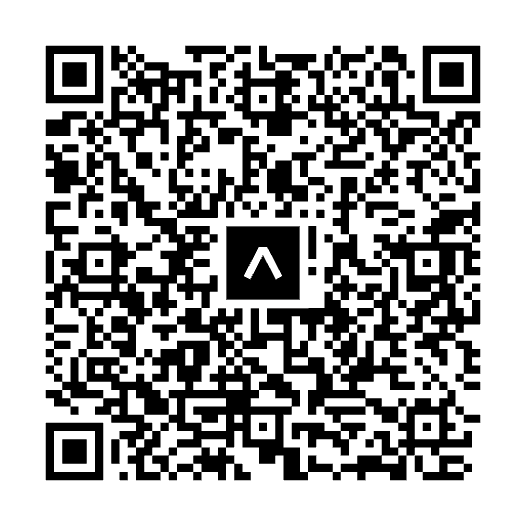
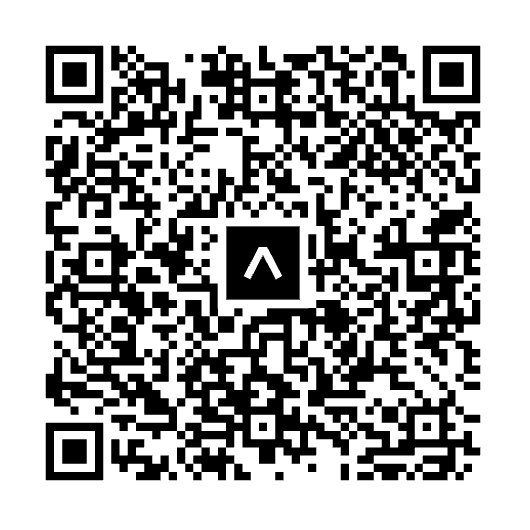
最新のQRコード画像に更新

diff --git a/README.md b/README.md
@@ -107,12 +107,7 @@ npx expo start
 
 **Expo Goアプリ**をインストール（[iOS](https://apps.apple.com/app/expo-go/id982107779) / [Android](https://play.google.com/store/apps/details?id=host.exp.exponent)）して、以下のQRコードをスキャン：
 
-<img src="https://qr.expo.dev/eas-update?updateId=85ce5b55-ac56-4a72-bddd-cc52197a120b&appScheme=exp&host=u.expo.dev" width="200" />
-
-または、プロジェクトページから最新のQRコードをスキャン：
-https://expo.dev/accounts/yucco-k/projects/react-native-todo-app/updates
-
-> このQRコードから最新版にアクセスできます。
+<img src="./assets/qr-code.png" width="200" />
 
 > **メリット**: WiFi制限なし、どこからでもアクセス可能、常に最新版を使用
 
